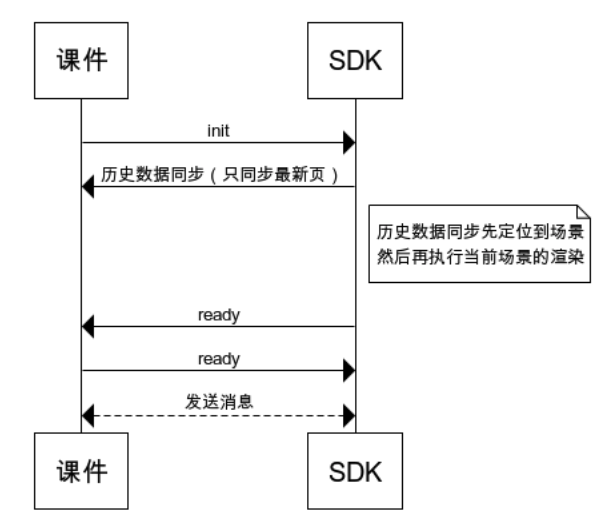
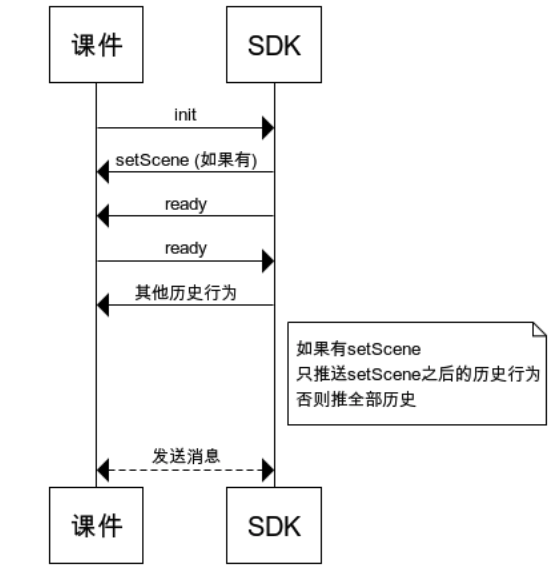
SDK 按照约定的文档更新

Changed region(s): [[0.0307, 0.0, 1.0, 0.9865]]

diff --git a/dist/index.js b/dist/index.js
@@ -1,1 +1,1 @@
-!function(e,t){if("object"==typeof exports&&"object"==typeof module)module.exports=t();else if("function"==typeof define&&define.amd)define([],t);else{var n=t();for(var r in n)("object"==typeof exports?exports:e)[r]=n[r]}}(window,(function(){return function(e){var t={};function n(r){if(t[r])return t[r].exports;var o=t[r]={i:r,l:!1,exports:{}};return e[r].call(o.exports,o,o.exports,n),o.l=!0,o.exports}return n.m=e,n.c=t,n.d=function(e,t,r){n.o(e,t)||Object.defineProperty(e,t,{enumerable:!0,get:r})},n.r=function(e){"undefined"!=typeof Symbol&&Symbol.toStringTag&&Object.defineProperty(e,Symbol.toStringTag,{value:"Module"}),Object.defineProperty(e,"__esModule",{value:!0})},n.t=function(e,t){if(1&t&&(e=n(e)),8&t)return e;if(4&t&&"object"==typeof e&&e&&e.__esModule)return e;var r=Object.create(null);if(n.r(r),Object.defineProperty(r,"default",{enumerable:!0,value:e}),2&t&&"string"!=typeof e)for(var o in e)n.d(r,o,function(t){return e[t]}.bind(null,o));return r},n.n=function(e){var t=e&&e.__esModule?function(){return e.default}:function(){return e};return n.d(t,"a",t),t},n.o=function(e,t){return Object.prototype.hasOwnProperty.call(e,t)},n.p="",n(n.s=0)}([function(e,t,n){"use strict";function r(){this.listeners={},this.maxListener=50}n.r(t),n.d(t,"riseObserver",(function(){return o})),n.d(t,"callRiseIframe",(function(){return h})),r.prototype.on=function(e,t){var n=this.listeners;if(n[e]&&n[e].length>=this.maxListener)throw console.error("监听器的最大数量是%d,您已超出限制",this.maxListener);n[e]instanceof Array?-1===n[e].indexOf(t)&&n[e].push(t):n[e]=[].concat(t)},r.prototype.addListener=r.prototype.on,r.prototype.emit=function(e){var t=Array.prototype.slice.call(arguments);t.shift();var n=this.listeners[e]||[],r=n.map((function(e){var n=e.apply(null,t);return n instanceof Promise?n:new Promise((function(e){return e(n)}))}));return Promise.all(r)},r.prototype.listeners=function(e){return this.listeners[e]},r.prototype.setMaxListeners=function(e){this.maxListener=e},r.prototype.removeListener=function(e,t){var n=this.listeners,r=(n[e]||[]).indexOf(t);r>=0&&n[e].splice(r,1)},r.prototype.removeAllListener=function(e){this.listeners[e]=[]},r.prototype.once=function(e,t){var n=this;this.on(e,(function r(){var o=Array.prototype.slice.call(arguments);t.apply(null,o),n.removeListener(e,r)}))};var o=new r,i=[],a={isLoad:!1,historyMsg:null,isHistorySynchronized:!1,isReady:!1};Object.defineProperty(a,"isReady",{get:function(){return a.isLoad&&a.isHistorySynchronized}});var s={render:function(e){return o.emit(e.behavior,e)},onLoad:function(){a.isLoad=!0,!a.isHistorySynchronized&&a.historyMsg&&s.syncHistory(a.historyMsg),s.flushQueue()},syncHistory:function(e){var t=e.content.list;if(t&&0!==t.length)if(a.isLoad){!function e(n){n<t.length-1?s.render(t[n]).then((function(){e(n++)})):(a.isHistorySynchronized=!0,a.historyMsg=null,s.flushQueue())}(0)}else a.historyMsg=e},flushQueue:function(){if(a.isReady)for(;i.length>0;)s.render(i[0]),i.splice(0,1)}};function u(e){if(window===window.top)return!1;console.log("sdk data:",e),"load"===e.behavior&&s.onLoad(),e&&e.behavior&&window.parent.postMessage&&window.parent.postMessage(e,"*")}window.addEventListener("message",(function(e){if(window!==window.top){var t=e.data;t&&t.behavior&&("$rise-courseware-history"!==t.behavior?a.isReady?s.render(t):i.push(t):s.syncHistory(t))}}));var f=100;function c(e,t,n){return t in e?Object.defineProperty(e,t,{value:n,enumerable:!0,configurable:!0,writable:!0}):e[t]=n,e}var l=new Map,p=function e(t){var n=this;!function(e,t){if(!(e instanceof t))throw new TypeError("Cannot call a class as a function")}(this,e),c(this,"interval",null),c(this,"bufferMap",null),c(this,"timer",null);var r=function(e){var t=e.interval;return"number"==typeof t?t:f}(t);if(r<0)throw new Error("interval 设置错误，无法创建定时任务");this.interval=r;var o=function(e){return"".concat(e.target,"-").concat(e.behavior)}(t);if(l.has(r)){var i=l.get(r);return i.bufferMap.set(o,t),i}return this.bufferMap=new Map,this.bufferMap.set(o,t),this.timer=setInterval((function(){var e=n.bufferMap;e.size>0?e.forEach((function(t,n){u(t),e.delete(n)})):(clearInterval(n.timer),l.delete(r))}),this.interval),l.set(r,this),this};function y(e,t){var n;if("undefined"==typeof Symbol||null==e[Symbol.iterator]){if(Array.isArray(e)||(n=function(e,t){if(!e)return;if("string"==typeof e)return d(e,t);var n=Object.prototype.toString.call(e).slice(8,-1);"Object"===n&&e.constructor&&(n=e.constructor.name);if("Map"===n||"Set"===n)return Array.from(e);if("Arguments"===n||/^(?:Ui|I)nt(?:8|16|32)(?:Clamped)?Array$/.test(n))return d(e,t)}(e))||t&&e&&"number"==typeof e.length){n&&(e=n);var r=0,o=function(){};return{s:o,n:function(){return r>=e.length?{done:!0}:{done:!1,value:e[r++]}},e:function(e){throw e},f:o}}throw new TypeError("Invalid attempt to iterate non-iterable instance.\nIn order to be iterable, non-array objects must have a [Symbol.iterator]() method.")}var i,a=!0,s=!1;return{s:function(){n=e[Symbol.iterator]()},n:function(){var e=n.next();return a=e.done,e},e:function(e){s=!0,i=e},f:function(){try{a||null==n.return||n.return()}finally{if(s)throw i}}}}function d(e,t){(null==t||t>e.length)&&(t=e.length);for(var n=0,r=new Array(t);n<t;n++)r[n]=e[n];return r}var h=function(e){e.interval?new p(e):e.waitOn&&e.waitOn.length>0?function(e){var t,n=e.waitOn.map((function(t){return"".concat(e.target,"-").concat(t)})),r=0,o=y(l.values());try{var i=function(){var e=t.value;if(!e.bufferMap)return"continue";n.forEach((function(t){e.bufferMap.has(t)&&(r=Math.max(e.interval,r))}))};for(o.s();!(t=o.n()).done;)i()}catch(e){o.e(e)}finally{o.f()}setTimeout((function(){u(e)}),r+1)}(e):u(e)}}])}));
+!function(e,t){if("object"==typeof exports&&"object"==typeof module)module.exports=t();else if("function"==typeof define&&define.amd)define([],t);else{var n=t();for(var r in n)("object"==typeof exports?exports:e)[r]=n[r]}}(window,(function(){return function(e){var t={};function n(r){if(t[r])return t[r].exports;var i=t[r]={i:r,l:!1,exports:{}};return e[r].call(i.exports,i,i.exports,n),i.l=!0,i.exports}return n.m=e,n.c=t,n.d=function(e,t,r){n.o(e,t)||Object.defineProperty(e,t,{enumerable:!0,get:r})},n.r=function(e){"undefined"!=typeof Symbol&&Symbol.toStringTag&&Object.defineProperty(e,Symbol.toStringTag,{value:"Module"}),Object.defineProperty(e,"__esModule",{value:!0})},n.t=function(e,t){if(1&t&&(e=n(e)),8&t)return e;if(4&t&&"object"==typeof e&&e&&e.__esModule)return e;var r=Object.create(null);if(n.r(r),Object.defineProperty(r,"default",{enumerable:!0,value:e}),2&t&&"string"!=typeof e)for(var i in e)n.d(r,i,function(t){return e[t]}.bind(null,i));return r},n.n=function(e){var t=e&&e.__esModule?function(){return e.default}:function(){return e};return n.d(t,"a",t),t},n.o=function(e,t){return Object.prototype.hasOwnProperty.call(e,t)},n.p="",n(n.s=0)}([function(e,t,n){"use strict";function r(){this.listeners={},this.maxListener=50}n.r(t),n.d(t,"riseObserver",(function(){return a})),n.d(t,"callRiseIframe",(function(){return b})),r.prototype.on=function(e,t){var n=this.listeners;if(n[e]&&n[e].length>=this.maxListener)throw console.error("监听器的最大数量是%d,您已超出限制",this.maxListener);n[e]instanceof Array?-1===n[e].indexOf(t)&&n[e].push(t):n[e]=[].concat(t)},r.prototype.addListener=r.prototype.on,r.prototype.emit=function(e){var t=Array.prototype.slice.call(arguments);t.shift();var n=this.listeners[e]||[];n.forEach((function(e){e.apply(null,t)}))},r.prototype.listeners=function(e){return this.listeners[e]},r.prototype.setMaxListeners=function(e){this.maxListener=e},r.prototype.removeListener=function(e,t){var n=this.listeners,r=(n[e]||[]).indexOf(t);r>=0&&n[e].splice(r,1)},r.prototype.removeAllListener=function(e){this.listeners[e]=[]},r.prototype.once=function(e,t){var n=this;this.on(e,(function r(){var i=Array.prototype.slice.call(arguments);t.apply(null,i),n.removeListener(e,r)}))};var i=100,o={history:"$rise_history",load:"init",ready:"ready",setScene:"setScene"},a=new r,s=[],u={isLoad:!1,isReady:!1},f={historyMsg:null,lastScene:null,isHistorySynchronized:!1,isReady:!1},c={render:function(e){return a.emit(e.behavior,e)},onLoad:function(){f.isLoad=!0,this.setScene()},setScene:function(){if(!f.historyMsg)return setTimeout((function(){c.setScene()}),50),!1;var e=f.historyMsg.content.list;if(e&&e.length>0){var t=e.filter((function(e){return e.behavior===o.setScene}));if(t&&t.length>0){var n=t[t.length-1];f.lastScene=n,c.render(n)}}this.onReady()},onReady:function(){f.isReady=!0,c.render({behavior:o.ready})},onCoursewareReady:function(){u.isReady=!0,this.syncHistory()},syncHistory:function(){if(!u.isReady)return!1;var e=f.historyMsg.content.list;if(!e||0===e.length)return this.onSyncHistoryFinish(),!0;var t=f.lastScene,n=null;n=t?e.filter((function(e){return e.timestamp>t.timestamp})):e;!function e(t){if(t===n.length)this.onSyncHistoryFinish();else{var r=n[t];c.render(r).then((function(){t++,r.timeout?setTimeout((function(){e(t)}),r.timeout):e(t)}))}}(0)},onSyncHistoryFinish:function(){f.historyMsg=null,f.isHistorySynchronized=!0,c.flushQueue()},flushQueue:function(){if(f.isHistorySynchronized)for(;s.length>0;)c.render(s[0]),s.splice(0,1)}};function l(e){if(window===window.top)return!1;e&&e.behavior&&(console.log("sdk data:",e),e.behavior===o.load?c.onLoad():e.behavior===o.ready?c.onCoursewareReady():window.parent.postMessage&&window.parent.postMessage(e,"*"))}function y(e,t,n){return t in e?Object.defineProperty(e,t,{value:n,enumerable:!0,configurable:!0,writable:!0}):e[t]=n,e}window.addEventListener("message",(function(e){if(window!==window.top){var t=e.data;t&&t.behavior&&(t.behavior!==o.history?f.isHistorySynchronized?c.render(t):s.push(t):f.historyMsg=t)}}));var h=new Map,d=function e(t){var n=this;!function(e,t){if(!(e instanceof t))throw new TypeError("Cannot call a class as a function")}(this,e),y(this,"interval",null),y(this,"bufferMap",null),y(this,"timer",null);var r=function(e){var t=e.interval;return"number"==typeof t?t:i}(t);if(r<0)throw new Error("interval 设置错误，无法创建定时任务");this.interval=r;var o=function(e){return"".concat(e.target,"-").concat(e.behavior)}(t);if(h.has(r)){var a=h.get(r);return a.bufferMap.set(o,t),a}return this.bufferMap=new Map,this.bufferMap.set(o,t),this.timer=setInterval((function(){var e=n.bufferMap;e.size>0?e.forEach((function(t,n){l(t),e.delete(n)})):(clearInterval(n.timer),h.delete(r))}),this.interval),h.set(r,this),this};function p(e,t){var n;if("undefined"==typeof Symbol||null==e[Symbol.iterator]){if(Array.isArray(e)||(n=function(e,t){if(!e)return;if("string"==typeof e)return v(e,t);var n=Object.prototype.toString.call(e).slice(8,-1);"Object"===n&&e.constructor&&(n=e.constructor.name);if("Map"===n||"Set"===n)return Array.from(e);if("Arguments"===n||/^(?:Ui|I)nt(?:8|16|32)(?:Clamped)?Array$/.test(n))return v(e,t)}(e))||t&&e&&"number"==typeof e.length){n&&(e=n);var r=0,i=function(){};return{s:i,n:function(){return r>=e.length?{done:!0}:{done:!1,value:e[r++]}},e:function(e){throw e},f:i}}throw new TypeError("Invalid attempt to iterate non-iterable instance.\nIn order to be iterable, non-array objects must have a [Symbol.iterator]() method.")}var o,a=!0,s=!1;return{s:function(){n=e[Symbol.iterator]()},n:function(){var e=n.next();return a=e.done,e},e:function(e){s=!0,o=e},f:function(){try{a||null==n.return||n.return()}finally{if(s)throw o}}}}function v(e,t){(null==t||t>e.length)&&(t=e.length);for(var n=0,r=new Array(t);n<t;n++)r[n]=e[n];return r}var b=function(e){e.interval?new d(e):e.waitOn&&e.waitOn.length>0?function(e){var t,n=e.waitOn.map((function(t){return"".concat(e.target,"-").concat(t)})),r=0,i=p(h.values());try{var o=function(){var e=t.value;if(!e.bufferMap)return"continue";n.forEach((function(t){e.bufferMap.has(t)&&(r=Math.max(e.interval,r))}))};for(i.s();!(t=i.n()).done;)o()}catch(e){i.e(e)}finally{i.f()}setTimeout((function(){l(e)}),r+1)}(e):l(e)}}])}));

diff --git a/demo/js/rise-h5-sdk.js b/demo/js/rise-h5-sdk.js
@@ -1,1 +1,1 @@
-!function(e,t){for(var n in t)e[n]=t[n]}(window,function(e){var t={};function n(r){if(t[r])return t[r].exports;var i=t[r]={i:r,l:!1,exports:{}};return e[r].call(i.exports,i,i.exports,n),i.l=!0,i.exports}return n.m=e,n.c=t,n.d=function(e,t,r){n.o(e,t)||Object.defineProperty(e,t,{enumerable:!0,get:r})},n.r=function(e){"undefined"!=typeof Symbol&&Symbol.toStringTag&&Object.defineProperty(e,Symbol.toStringTag,{value:"Module"}),Object.defineProperty(e,"__esModule",{value:!0})},n.t=function(e,t){if(1&t&&(e=n(e)),8&t)return e;if(4&t&&"object"==typeof e&&e&&e.__esModule)return e;var r=Object.create(null);if(n.r(r),Object.defineProperty(r,"default",{enumerable:!0,value:e}),2&t&&"string"!=typeof e)for(var i in e)n.d(r,i,function(t){return e[t]}.bind(null,i));return r},n.n=function(e){var t=e&&e.__esModule?function(){return e.default}:function(){return e};return n.d(t,"a",t),t},n.o=function(e,t){return Object.prototype.hasOwnProperty.call(e,t)},n.p="",n(n.s=0)}([function(e,t,n){"use strict";function r(){this.listeners={},this.maxListener=50}n.r(t),n.d(t,"riseObserver",(function(){return i})),n.d(t,"callRiseIframe",(function(){return d})),r.prototype.on=function(e,t){var n=this.listeners;if(n[e]&&n[e].length>=this.maxListener)throw console.error("监听器的最大数量是%d,您已超出限制",this.maxListener);n[e]instanceof Array?-1===n[e].indexOf(t)&&n[e].push(t):n[e]=[].concat(t)},r.prototype.addListener=r.prototype.on,r.prototype.emit=function(e){var t=Array.prototype.slice.call(arguments);t.shift();var n=this.listeners[e]||[],r=n.map((function(e){var n=e.apply(null,t);return n instanceof Promise?n:new Promise((function(e){return e(n)}))}));return Promise.all(r)},r.prototype.listeners=function(e){return this.listeners[e]},r.prototype.setMaxListeners=function(e){this.maxListener=e},r.prototype.removeListener=function(e,t){var n=this.listeners,r=(n[e]||[]).indexOf(t);r>=0&&n[e].splice(r,1)},r.prototype.removeAllListener=function(e){this.listeners[e]=[]},r.prototype.once=function(e,t){var n=this;this.on(e,(function r(){var i=Array.prototype.slice.call(arguments);t.apply(null,i),n.removeListener(e,r)}))};var i=new r,o=[],a={isLoad:!1,historyMsg:null,isHistorySynchronized:!1,isReady:!1};Object.defineProperty(a,"isReady",{get:function(){return a.isLoad&&a.isHistorySynchronized}});var s={render:function(e){return i.emit(e.behavior,e)},onLoad:function(){a.isLoad=!0,!a.isHistorySynchronized&&a.historyMsg&&s.syncHistory(a.historyMsg),s.flushQueue()},syncHistory:function(e){var t=e.content.list;if(t&&0!==t.length)if(a.isLoad){!function e(n){n<t.length-1?s.render(t[n]).then((function(){e(n++)})):(a.isHistorySynchronized=!0,a.historyMsg=null,s.flushQueue())}(0)}else a.historyMsg=e},flushQueue:function(){if(a.isReady)for(;o.length>0;)s.render(o[0]),o.splice(0,1)}};function u(e){if(window===window.top)return!1;console.log("sdk data:",e),"load"===e.behavior&&s.onLoad(),e&&e.behavior&&window.parent.postMessage&&window.parent.postMessage(e,"*")}window.addEventListener("message",(function(e){if(window!==window.top){var t=e.data;t&&t.behavior&&("$rise-courseware-history"!==t.behavior?a.isReady?s.render(t):o.push(t):s.syncHistory(t))}}));var f=100;function c(e,t,n){return t in e?Object.defineProperty(e,t,{value:n,enumerable:!0,configurable:!0,writable:!0}):e[t]=n,e}var l=new Map,p=function e(t){var n=this;!function(e,t){if(!(e instanceof t))throw new TypeError("Cannot call a class as a function")}(this,e),c(this,"interval",null),c(this,"bufferMap",null),c(this,"timer",null);var r=function(e){var t=e.interval;return"number"==typeof t?t:f}(t);if(r<0)throw new Error("interval 设置错误，无法创建定时任务");this.interval=r;var i=function(e){return"".concat(e.target,"-").concat(e.behavior)}(t);if(l.has(r)){var o=l.get(r);return o.bufferMap.set(i,t),o}return this.bufferMap=new Map,this.bufferMap.set(i,t),this.timer=setInterval((function(){var e=n.bufferMap;e.size>0?e.forEach((function(t,n){u(t),e.delete(n)})):(clearInterval(n.timer),l.delete(r))}),this.interval),l.set(r,this),this};function y(e,t){var n;if("undefined"==typeof Symbol||null==e[Symbol.iterator]){if(Array.isArray(e)||(n=function(e,t){if(!e)return;if("string"==typeof e)return h(e,t);var n=Object.prototype.toString.call(e).slice(8,-1);"Object"===n&&e.constructor&&(n=e.constructor.name);if("Map"===n||"Set"===n)return Array.from(e);if("Arguments"===n||/^(?:Ui|I)nt(?:8|16|32)(?:Clamped)?Array$/.test(n))return h(e,t)}(e))||t&&e&&"number"==typeof e.length){n&&(e=n);var r=0,i=function(){};return{s:i,n:function(){return r>=e.length?{done:!0}:{done:!1,value:e[r++]}},e:function(e){throw e},f:i}}throw new TypeError("Invalid attempt to iterate non-iterable instance.\nIn order to be iterable, non-array objects must have a [Symbol.iterator]() method.")}var o,a=!0,s=!1;return{s:function(){n=e[Symbol.iterator]()},n:function(){var e=n.next();return a=e.done,e},e:function(e){s=!0,o=e},f:function(){try{a||null==n.return||n.return()}finally{if(s)throw o}}}}function h(e,t){(null==t||t>e.length)&&(t=e.length);for(var n=0,r=new Array(t);n<t;n++)r[n]=e[n];return r}var d=function(e){e.interval?new p(e):e.waitOn&&e.waitOn.length>0?function(e){var t,n=e.waitOn.map((function(t){return"".concat(e.target,"-").concat(t)})),r=0,i=y(l.values());try{var o=function(){var e=t.value;if(!e.bufferMap)return"continue";n.forEach((function(t){e.bufferMap.has(t)&&(r=Math.max(e.interval,r))}))};for(i.s();!(t=i.n()).done;)o()}catch(e){i.e(e)}finally{i.f()}setTimeout((function(){u(e)}),r+1)}(e):u(e)}}]));
+!function(e,t){for(var n in t)e[n]=t[n]}(window,function(e){var t={};function n(r){if(t[r])return t[r].exports;var i=t[r]={i:r,l:!1,exports:{}};return e[r].call(i.exports,i,i.exports,n),i.l=!0,i.exports}return n.m=e,n.c=t,n.d=function(e,t,r){n.o(e,t)||Object.defineProperty(e,t,{enumerable:!0,get:r})},n.r=function(e){"undefined"!=typeof Symbol&&Symbol.toStringTag&&Object.defineProperty(e,Symbol.toStringTag,{value:"Module"}),Object.defineProperty(e,"__esModule",{value:!0})},n.t=function(e,t){if(1&t&&(e=n(e)),8&t)return e;if(4&t&&"object"==typeof e&&e&&e.__esModule)return e;var r=Object.create(null);if(n.r(r),Object.defineProperty(r,"default",{enumerable:!0,value:e}),2&t&&"string"!=typeof e)for(var i in e)n.d(r,i,function(t){return e[t]}.bind(null,i));return r},n.n=function(e){var t=e&&e.__esModule?function(){return e.default}:function(){return e};return n.d(t,"a",t),t},n.o=function(e,t){return Object.prototype.hasOwnProperty.call(e,t)},n.p="",n(n.s=0)}([function(e,t,n){"use strict";function r(){this.listeners={},this.maxListener=50}n.r(t),n.d(t,"riseObserver",(function(){return a})),n.d(t,"callRiseIframe",(function(){return b})),r.prototype.on=function(e,t){var n=this.listeners;if(n[e]&&n[e].length>=this.maxListener)throw console.error("监听器的最大数量是%d,您已超出限制",this.maxListener);n[e]instanceof Array?-1===n[e].indexOf(t)&&n[e].push(t):n[e]=[].concat(t)},r.prototype.addListener=r.prototype.on,r.prototype.emit=function(e){var t=Array.prototype.slice.call(arguments);t.shift();var n=this.listeners[e]||[];n.forEach((function(e){e.apply(null,t)}))},r.prototype.listeners=function(e){return this.listeners[e]},r.prototype.setMaxListeners=function(e){this.maxListener=e},r.prototype.removeListener=function(e,t){var n=this.listeners,r=(n[e]||[]).indexOf(t);r>=0&&n[e].splice(r,1)},r.prototype.removeAllListener=function(e){this.listeners[e]=[]},r.prototype.once=function(e,t){var n=this;this.on(e,(function r(){var i=Array.prototype.slice.call(arguments);t.apply(null,i),n.removeListener(e,r)}))};var i=100,o={history:"$rise_history",load:"init",ready:"ready",setScene:"setScene"},a=new r,s=[],u={isLoad:!1,isReady:!1},f={historyMsg:null,lastScene:null,isHistorySynchronized:!1,isReady:!1},c={render:function(e){return a.emit(e.behavior,e)},onLoad:function(){f.isLoad=!0,this.setScene()},setScene:function(){if(!f.historyMsg)return setTimeout((function(){c.setScene()}),50),!1;var e=f.historyMsg.content.list;if(e&&e.length>0){var t=e.filter((function(e){return e.behavior===o.setScene}));if(t&&t.length>0){var n=t[t.length-1];f.lastScene=n,c.render(n)}}this.onReady()},onReady:function(){f.isReady=!0,c.render({behavior:o.ready})},onCoursewareReady:function(){u.isReady=!0,this.syncHistory()},syncHistory:function(){if(!u.isReady)return!1;var e=f.historyMsg.content.list;if(!e||0===e.length)return this.onSyncHistoryFinish(),!0;var t=f.lastScene,n=null;n=t?e.filter((function(e){return e.timestamp>t.timestamp})):e;!function e(t){if(t===n.length)this.onSyncHistoryFinish();else{var r=n[t];c.render(r).then((function(){t++,r.timeout?setTimeout((function(){e(t)}),r.timeout):e(t)}))}}(0)},onSyncHistoryFinish:function(){f.historyMsg=null,f.isHistorySynchronized=!0,c.flushQueue()},flushQueue:function(){if(f.isHistorySynchronized)for(;s.length>0;)c.render(s[0]),s.splice(0,1)}};function l(e){if(window===window.top)return!1;e&&e.behavior&&(console.log("sdk data:",e),e.behavior===o.load?c.onLoad():e.behavior===o.ready?c.onCoursewareReady():window.parent.postMessage&&window.parent.postMessage(e,"*"))}function y(e,t,n){return t in e?Object.defineProperty(e,t,{value:n,enumerable:!0,configurable:!0,writable:!0}):e[t]=n,e}window.addEventListener("message",(function(e){if(window!==window.top){var t=e.data;t&&t.behavior&&(t.behavior!==o.history?f.isHistorySynchronized?c.render(t):s.push(t):f.historyMsg=t)}}));var h=new Map,d=function e(t){var n=this;!function(e,t){if(!(e instanceof t))throw new TypeError("Cannot call a class as a function")}(this,e),y(this,"interval",null),y(this,"bufferMap",null),y(this,"timer",null);var r=function(e){var t=e.interval;return"number"==typeof t?t:i}(t);if(r<0)throw new Error("interval 设置错误，无法创建定时任务");this.interval=r;var o=function(e){return"".concat(e.target,"-").concat(e.behavior)}(t);if(h.has(r)){var a=h.get(r);return a.bufferMap.set(o,t),a}return this.bufferMap=new Map,this.bufferMap.set(o,t),this.timer=setInterval((function(){var e=n.bufferMap;e.size>0?e.forEach((function(t,n){l(t),e.delete(n)})):(clearInterval(n.timer),h.delete(r))}),this.interval),h.set(r,this),this};function p(e,t){var n;if("undefined"==typeof Symbol||null==e[Symbol.iterator]){if(Array.isArray(e)||(n=function(e,t){if(!e)return;if("string"==typeof e)return v(e,t);var n=Object.prototype.toString.call(e).slice(8,-1);"Object"===n&&e.constructor&&(n=e.constructor.name);if("Map"===n||"Set"===n)return Array.from(e);if("Arguments"===n||/^(?:Ui|I)nt(?:8|16|32)(?:Clamped)?Array$/.test(n))return v(e,t)}(e))||t&&e&&"number"==typeof e.length){n&&(e=n);var r=0,i=function(){};return{s:i,n:function(){return r>=e.length?{done:!0}:{done:!1,value:e[r++]}},e:function(e){throw e},f:i}}throw new TypeError("Invalid attempt to iterate non-iterable instance.\nIn order to be iterable, non-array objects must have a [Symbol.iterator]() method.")}var o,a=!0,s=!1;return{s:function(){n=e[Symbol.iterator]()},n:function(){var e=n.next();return a=e.done,e},e:function(e){s=!0,o=e},f:function(){try{a||null==n.return||n.return()}finally{if(s)throw o}}}}function v(e,t){(null==t||t>e.length)&&(t=e.length);for(var n=0,r=new Array(t);n<t;n++)r[n]=e[n];return r}var b=function(e){e.interval?new d(e):e.waitOn&&e.waitOn.length>0?function(e){var t,n=e.waitOn.map((function(t){return"".concat(e.target,"-").concat(t)})),r=0,i=p(h.values());try{var o=function(){var e=t.value;if(!e.bufferMap)return"continue";n.forEach((function(t){e.bufferMap.has(t)&&(r=Math.max(e.interval,r))}))};for(i.s();!(t=i.n()).done;)o()}catch(e){i.e(e)}finally{i.f()}setTimeout((function(){l(e)}),r+1)}(e):l(e)}}]));

diff --git a/dist/rise-h5-sdk.js b/dist/rise-h5-sdk.js
@@ -1,1 +1,1 @@
-!function(e,t){for(var n in t)e[n]=t[n]}(window,function(e){var t={};function n(r){if(t[r])return t[r].exports;var i=t[r]={i:r,l:!1,exports:{}};return e[r].call(i.exports,i,i.exports,n),i.l=!0,i.exports}return n.m=e,n.c=t,n.d=function(e,t,r){n.o(e,t)||Object.defineProperty(e,t,{enumerable:!0,get:r})},n.r=function(e){"undefined"!=typeof Symbol&&Symbol.toStringTag&&Object.defineProperty(e,Symbol.toStringTag,{value:"Module"}),Object.defineProperty(e,"__esModule",{value:!0})},n.t=function(e,t){if(1&t&&(e=n(e)),8&t)return e;if(4&t&&"object"==typeof e&&e&&e.__esModule)return e;var r=Object.create(null);if(n.r(r),Object.defineProperty(r,"default",{enumerable:!0,value:e}),2&t&&"string"!=typeof e)for(var i in e)n.d(r,i,function(t){return e[t]}.bind(null,i));return r},n.n=function(e){var t=e&&e.__esModule?function(){return e.default}:function(){return e};return n.d(t,"a",t),t},n.o=function(e,t){return Object.prototype.hasOwnProperty.call(e,t)},n.p="",n(n.s=0)}([function(e,t,n){"use strict";function r(){this.listeners={},this.maxListener=50}n.r(t),n.d(t,"riseObserver",(function(){return i})),n.d(t,"callRiseIframe",(function(){return d})),r.prototype.on=function(e,t){var n=this.listeners;if(n[e]&&n[e].length>=this.maxListener)throw console.error("监听器的最大数量是%d,您已超出限制",this.maxListener);n[e]instanceof Array?-1===n[e].indexOf(t)&&n[e].push(t):n[e]=[].concat(t)},r.prototype.addListener=r.prototype.on,r.prototype.emit=function(e){var t=Array.prototype.slice.call(arguments);t.shift();var n=this.listeners[e]||[],r=n.map((function(e){var n=e.apply(null,t);return n instanceof Promise?n:new Promise((function(e){return e(n)}))}));return Promise.all(r)},r.prototype.listeners=function(e){return this.listeners[e]},r.prototype.setMaxListeners=function(e){this.maxListener=e},r.prototype.removeListener=function(e,t){var n=this.listeners,r=(n[e]||[]).indexOf(t);r>=0&&n[e].splice(r,1)},r.prototype.removeAllListener=function(e){this.listeners[e]=[]},r.prototype.once=function(e,t){var n=this;this.on(e,(function r(){var i=Array.prototype.slice.call(arguments);t.apply(null,i),n.removeListener(e,r)}))};var i=new r,o=[],a={isLoad:!1,historyMsg:null,isHistorySynchronized:!1,isReady:!1};Object.defineProperty(a,"isReady",{get:function(){return a.isLoad&&a.isHistorySynchronized}});var s={render:function(e){return i.emit(e.behavior,e)},onLoad:function(){a.isLoad=!0,!a.isHistorySynchronized&&a.historyMsg&&s.syncHistory(a.historyMsg),s.flushQueue()},syncHistory:function(e){var t=e.content.list;if(t&&0!==t.length)if(a.isLoad){!function e(n){n<t.length-1?s.render(t[n]).then((function(){e(n++)})):(a.isHistorySynchronized=!0,a.historyMsg=null,s.flushQueue())}(0)}else a.historyMsg=e},flushQueue:function(){if(a.isReady)for(;o.length>0;)s.render(o[0]),o.splice(0,1)}};function u(e){if(window===window.top)return!1;console.log("sdk data:",e),"load"===e.behavior&&s.onLoad(),e&&e.behavior&&window.parent.postMessage&&window.parent.postMessage(e,"*")}window.addEventListener("message",(function(e){if(window!==window.top){var t=e.data;t&&t.behavior&&("$rise-courseware-history"!==t.behavior?a.isReady?s.render(t):o.push(t):s.syncHistory(t))}}));var f=100;function c(e,t,n){return t in e?Object.defineProperty(e,t,{value:n,enumerable:!0,configurable:!0,writable:!0}):e[t]=n,e}var l=new Map,p=function e(t){var n=this;!function(e,t){if(!(e instanceof t))throw new TypeError("Cannot call a class as a function")}(this,e),c(this,"interval",null),c(this,"bufferMap",null),c(this,"timer",null);var r=function(e){var t=e.interval;return"number"==typeof t?t:f}(t);if(r<0)throw new Error("interval 设置错误，无法创建定时任务");this.interval=r;var i=function(e){return"".concat(e.target,"-").concat(e.behavior)}(t);if(l.has(r)){var o=l.get(r);return o.bufferMap.set(i,t),o}return this.bufferMap=new Map,this.bufferMap.set(i,t),this.timer=setInterval((function(){var e=n.bufferMap;e.size>0?e.forEach((function(t,n){u(t),e.delete(n)})):(clearInterval(n.timer),l.delete(r))}),this.interval),l.set(r,this),this};function y(e,t){var n;if("undefined"==typeof Symbol||null==e[Symbol.iterator]){if(Array.isArray(e)||(n=function(e,t){if(!e)return;if("string"==typeof e)return h(e,t);var n=Object.prototype.toString.call(e).slice(8,-1);"Object"===n&&e.constructor&&(n=e.constructor.name);if("Map"===n||"Set"===n)return Array.from(e);if("Arguments"===n||/^(?:Ui|I)nt(?:8|16|32)(?:Clamped)?Array$/.test(n))return h(e,t)}(e))||t&&e&&"number"==typeof e.length){n&&(e=n);var r=0,i=function(){};return{s:i,n:function(){return r>=e.length?{done:!0}:{done:!1,value:e[r++]}},e:function(e){throw e},f:i}}throw new TypeError("Invalid attempt to iterate non-iterable instance.\nIn order to be iterable, non-array objects must have a [Symbol.iterator]() method.")}var o,a=!0,s=!1;return{s:function(){n=e[Symbol.iterator]()},n:function(){var e=n.next();return a=e.done,e},e:function(e){s=!0,o=e},f:function(){try{a||null==n.return||n.return()}finally{if(s)throw o}}}}function h(e,t){(null==t||t>e.length)&&(t=e.length);for(var n=0,r=new Array(t);n<t;n++)r[n]=e[n];return r}var d=function(e){e.interval?new p(e):e.waitOn&&e.waitOn.length>0?function(e){var t,n=e.waitOn.map((function(t){return"".concat(e.target,"-").concat(t)})),r=0,i=y(l.values());try{var o=function(){var e=t.value;if(!e.bufferMap)return"continue";n.forEach((function(t){e.bufferMap.has(t)&&(r=Math.max(e.interval,r))}))};for(i.s();!(t=i.n()).done;)o()}catch(e){i.e(e)}finally{i.f()}setTimeout((function(){u(e)}),r+1)}(e):u(e)}}]));
+!function(e,t){for(var n in t)e[n]=t[n]}(window,function(e){var t={};function n(r){if(t[r])return t[r].exports;var i=t[r]={i:r,l:!1,exports:{}};return e[r].call(i.exports,i,i.exports,n),i.l=!0,i.exports}return n.m=e,n.c=t,n.d=function(e,t,r){n.o(e,t)||Object.defineProperty(e,t,{enumerable:!0,get:r})},n.r=function(e){"undefined"!=typeof Symbol&&Symbol.toStringTag&&Object.defineProperty(e,Symbol.toStringTag,{value:"Module"}),Object.defineProperty(e,"__esModule",{value:!0})},n.t=function(e,t){if(1&t&&(e=n(e)),8&t)return e;if(4&t&&"object"==typeof e&&e&&e.__esModule)return e;var r=Object.create(null);if(n.r(r),Object.defineProperty(r,"default",{enumerable:!0,value:e}),2&t&&"string"!=typeof e)for(var i in e)n.d(r,i,function(t){return e[t]}.bind(null,i));return r},n.n=function(e){var t=e&&e.__esModule?function(){return e.default}:function(){return e};return n.d(t,"a",t),t},n.o=function(e,t){return Object.prototype.hasOwnProperty.call(e,t)},n.p="",n(n.s=0)}([function(e,t,n){"use strict";function r(){this.listeners={},this.maxListener=50}n.r(t),n.d(t,"riseObserver",(function(){return a})),n.d(t,"callRiseIframe",(function(){return b})),r.prototype.on=function(e,t){var n=this.listeners;if(n[e]&&n[e].length>=this.maxListener)throw console.error("监听器的最大数量是%d,您已超出限制",this.maxListener);n[e]instanceof Array?-1===n[e].indexOf(t)&&n[e].push(t):n[e]=[].concat(t)},r.prototype.addListener=r.prototype.on,r.prototype.emit=function(e){var t=Array.prototype.slice.call(arguments);t.shift();var n=this.listeners[e]||[];n.forEach((function(e){e.apply(null,t)}))},r.prototype.listeners=function(e){return this.listeners[e]},r.prototype.setMaxListeners=function(e){this.maxListener=e},r.prototype.removeListener=function(e,t){var n=this.listeners,r=(n[e]||[]).indexOf(t);r>=0&&n[e].splice(r,1)},r.prototype.removeAllListener=function(e){this.listeners[e]=[]},r.prototype.once=function(e,t){var n=this;this.on(e,(function r(){var i=Array.prototype.slice.call(arguments);t.apply(null,i),n.removeListener(e,r)}))};var i=100,o={history:"$rise_history",load:"init",ready:"ready",setScene:"setScene"},a=new r,s=[],u={isLoad:!1,isReady:!1},f={historyMsg:null,lastScene:null,isHistorySynchronized:!1,isReady:!1},c={render:function(e){return a.emit(e.behavior,e)},onLoad:function(){f.isLoad=!0,this.setScene()},setScene:function(){if(!f.historyMsg)return setTimeout((function(){c.setScene()}),50),!1;var e=f.historyMsg.content.list;if(e&&e.length>0){var t=e.filter((function(e){return e.behavior===o.setScene}));if(t&&t.length>0){var n=t[t.length-1];f.lastScene=n,c.render(n)}}this.onReady()},onReady:function(){f.isReady=!0,c.render({behavior:o.ready})},onCoursewareReady:function(){u.isReady=!0,this.syncHistory()},syncHistory:function(){if(!u.isReady)return!1;var e=f.historyMsg.content.list;if(!e||0===e.length)return this.onSyncHistoryFinish(),!0;var t=f.lastScene,n=null;n=t?e.filter((function(e){return e.timestamp>t.timestamp})):e;!function e(t){if(t===n.length)this.onSyncHistoryFinish();else{var r=n[t];c.render(r).then((function(){t++,r.timeout?setTimeout((function(){e(t)}),r.timeout):e(t)}))}}(0)},onSyncHistoryFinish:function(){f.historyMsg=null,f.isHistorySynchronized=!0,c.flushQueue()},flushQueue:function(){if(f.isHistorySynchronized)for(;s.length>0;)c.render(s[0]),s.splice(0,1)}};function l(e){if(window===window.top)return!1;e&&e.behavior&&(console.log("sdk data:",e),e.behavior===o.load?c.onLoad():e.behavior===o.ready?c.onCoursewareReady():window.parent.postMessage&&window.parent.postMessage(e,"*"))}function y(e,t,n){return t in e?Object.defineProperty(e,t,{value:n,enumerable:!0,configurable:!0,writable:!0}):e[t]=n,e}window.addEventListener("message",(function(e){if(window!==window.top){var t=e.data;t&&t.behavior&&(t.behavior!==o.history?f.isHistorySynchronized?c.render(t):s.push(t):f.historyMsg=t)}}));var h=new Map,d=function e(t){var n=this;!function(e,t){if(!(e instanceof t))throw new TypeError("Cannot call a class as a function")}(this,e),y(this,"interval",null),y(this,"bufferMap",null),y(this,"timer",null);var r=function(e){var t=e.interval;return"number"==typeof t?t:i}(t);if(r<0)throw new Error("interval 设置错误，无法创建定时任务");this.interval=r;var o=function(e){return"".concat(e.target,"-").concat(e.behavior)}(t);if(h.has(r)){var a=h.get(r);return a.bufferMap.set(o,t),a}return this.bufferMap=new Map,this.bufferMap.set(o,t),this.timer=setInterval((function(){var e=n.bufferMap;e.size>0?e.forEach((function(t,n){l(t),e.delete(n)})):(clearInterval(n.timer),h.delete(r))}),this.interval),h.set(r,this),this};function p(e,t){var n;if("undefined"==typeof Symbol||null==e[Symbol.iterator]){if(Array.isArray(e)||(n=function(e,t){if(!e)return;if("string"==typeof e)return v(e,t);var n=Object.prototype.toString.call(e).slice(8,-1);"Object"===n&&e.constructor&&(n=e.constructor.name);if("Map"===n||"Set"===n)return Array.from(e);if("Arguments"===n||/^(?:Ui|I)nt(?:8|16|32)(?:Clamped)?Array$/.test(n))return v(e,t)}(e))||t&&e&&"number"==typeof e.length){n&&(e=n);var r=0,i=function(){};return{s:i,n:function(){return r>=e.length?{done:!0}:{done:!1,value:e[r++]}},e:function(e){throw e},f:i}}throw new TypeError("Invalid attempt to iterate non-iterable instance.\nIn order to be iterable, non-array objects must have a [Symbol.iterator]() method.")}var o,a=!0,s=!1;return{s:function(){n=e[Symbol.iterator]()},n:function(){var e=n.next();return a=e.done,e},e:function(e){s=!0,o=e},f:function(){try{a||null==n.return||n.return()}finally{if(s)throw o}}}}function v(e,t){(null==t||t>e.length)&&(t=e.length);for(var n=0,r=new Array(t);n<t;n++)r[n]=e[n];return r}var b=function(e){e.interval?new d(e):e.waitOn&&e.waitOn.length>0?function(e){var t,n=e.waitOn.map((function(t){return"".concat(e.target,"-").concat(t)})),r=0,i=p(h.values());try{var o=function(){var e=t.value;if(!e.bufferMap)return"continue";n.forEach((function(t){e.bufferMap.has(t)&&(r=Math.max(e.interval,r))}))};for(i.s();!(t=i.n()).done;)o()}catch(e){i.e(e)}finally{i.f()}setTimeout((function(){l(e)}),r+1)}(e):l(e)}}]));

diff --git a/src/message.js b/src/message.js
@@ -7,6 +7,7 @@ const riseObserver = new EventEmitter();
  */
 const queue = [];
 
+// 课件状态
 const courseware = {
   // 课件是否已加载。以收到 课件的 init 通知为准
   isLoad: false,
@@ -17,16 +18,13 @@ const courseware = {
 const state = {
   // 如果收到历史操作消息后，课件还没 load ，那需要先把历史消息挂起，等 load 后再渲染。（标准 SDK 消息）
   historyMsg: null,
+  // 从历史行为中取的最近的一次 setScene 行为
+  lastScene: null,
   // 历史操作是否已同步
   isHistorySynchronized: false,
   // SDK 准备就绪
-  isReady: false,
+  isReady: false
 }
-// Object.defineProperty(state, 'isReady', {
-//   get() {
-//     return state.isLoad && state.isHistorySynchronized;
-//   }
-// });
 
 const action = {
   render(data) {
@@ -34,15 +32,49 @@ const action = {
   },
   onLoad() {
     state.isLoad = true;
-    // 检测同步课件的操作
-    if (!state.isHistorySynchronized && state.historyMsg) {
-      action.syncHistory();
-    }
+    this.setScene();
   },
-  // 同步课件的历史操作
+  // 如果有 setScene ，则会通知课件设置场景
+  setScene() {
+    if (!state.historyMsg) {
+      // 如果还没收到历史消息，稍后再询问执行
+      setTimeout(() => {
+        action.setScene();
+      }, 50);
+      return false;
+    }
+    // list 是 rise 存储的去重后的所有的历史操作
+    const list = state.historyMsg.content.list;
+    if (list && list.length > 0) {
+      // 找出 setScene behavior
+      const scenes = list.filter(p => p.behavior === config.behaviors.setScene);
+      if (scenes && scenes.length > 0) {
+        const lastScene = scenes[scenes.length - 1];
+        // 记录到 state 上，后面的历史行为同步函数会用到
+        state.lastScene = lastScene;
+        action.render(lastScene);
+      }
+    }
+
+    this.onReady();
+  },
+  // SDK Ready
+  onReady() {
+    state.isReady = true;
+    // sdk ready 通知
+    action.render({
+      behavior: config.behaviors.ready
+    });
+  },
+  // 课件 Ready
+  onCoursewareReady() {
+    courseware.isReady = true;
+    this.syncHistory();
+  },
+  // 同步课件的历史行为
   syncHistory() {
-    // 必须要在课件 load 之后再同步
-    if (!state.isLoad) {
+    // 要在课件 ready 之后
+    if (!courseware.isReady) {
       return false;
     }
     // list 是 rise 存储的去重后的所有的历史操作
@@ -51,14 +83,27 @@ const action = {
       this.onSyncHistoryFinish();
       return true;
     }
+    // 历史行为中最近的 setScene
+    let lastScene = state.lastScene;
+    // 要渲染的行为
+    let renderList = null;
+    if (lastScene) {
+      renderList = list.filter(p => p.timestamp > lastScene.timestamp);
+    } else {
+      renderList = list;
+    }
+    // 依次渲染
     const next = function (i) {
-      if (i === list.length - 1) {
+      if (i === renderList.length) {
+        // 同步完成
         this.onSyncHistoryFinish();
       } else {
-        const data = list[i];
-        action.render(list[i]).then(() => {
+        const data = renderList[i];
+        // 依次渲染
+        action.render(data).then(() => {
           i++;
           if (data.timeout) {
+            // 如果当前行为设置了执行消耗时间，那下一个行为要等待此间隔
             setTimeout(() => {
               next(i);
             }, data.timeout);
@@ -76,10 +121,12 @@ const action = {
     state.historyMsg = null;
     // 标记历史同步完成
     state.isHistorySynchronized = true;
+    // 挂起的消息进行渲染
+    action.flushQueue();
   },
   // 队列中的消息执行渲染
   flushQueue() {
-    if (state.isReady) {
+    if (state.isHistorySynchronized) {
       while (queue.length > 0) {
         action.render(queue[0]);
         queue.splice(0, 1);
@@ -102,11 +149,11 @@ window.addEventListener('message', function (evt) {
   }
   // 特殊的 behavior
   if (data.behavior === config.behaviors.history) {
-    action.syncHistory(data);
+    state.historyMsg = data;
     return;
   }
-  // 如果已经 ready ，则直接渲染。否则加入队列等待渲染
-  if (state.isReady) {
+  // 如果历史同步已经完成 ，则直接渲染。否则加入队列等待渲染
+  if (state.isHistorySynchronized) {
     action.render(data);
   } else {
     queue.push(data);
@@ -121,12 +168,16 @@ function postToRise(data) {
   if (window === window.top) {
     return false;
   }
+  if (!data || !data.behavior) {
+    return;
+  }
   console.log('sdk data:', data);
   // 特殊的 behavior
-  if (data.behavior === 'load') {
+  if (data.behavior === config.behaviors.load) {
     action.onLoad();
-  }
-  if (data && data.behavior) {
+  } else if (data.behavior === config.behaviors.ready) {
+    action.onCoursewareReady();
+  } else {
     window.parent.postMessage && window.parent.postMessage(data, '*');
   }
 }

diff --git a/demo/js/index.js b/demo/js/index.js
@@ -1,7 +1,7 @@
 const riseObserver = window.riseObserver;
 const callRiseIframe = window.callRiseIframe;
 
-const totalPage = 2; // 课件总页数
+// const totalPage = 2; // 课件总页数
 
 // 当前拖动状态信息
 const dragInfo = {
@@ -46,6 +46,7 @@ function eventInit() {
       const data = {
         target: target,
         behavior: 'rollCall',
+        page: 'page-1',
         scene: 'page-1',
         content: {}
       }
@@ -65,6 +66,7 @@ function eventInit() {
       target: '.next-page',
       behavior: 'setScene',
       // 当前所处的是第一页
+      page: 'page-1',
       scene: 'page-1',
       // 要进入第二页
       content: {
@@ -88,6 +90,7 @@ function eventInit() {
       const data = {
         target: `#${event.target.id}`,
         behavior: 'moveStart',
+        page: 'page-2',
         scene: 'page-2',
         content: { left: percentageX, top: percentageY }
       }
@@ -106,6 +109,7 @@ function eventInit() {
       const data = {
         target: `#${event.target.id}`,
         behavior: 'move',
+        page: 'page-2',
         scene: 'page-2',
         content: { left: percentageX, top: percentageY },
         // 鼠标移动事件太频繁，使用队列定时批量发送。SDK 内置了实现，只需要指定 interval = true 即可
@@ -119,6 +123,7 @@ function eventInit() {
     const data = {
       target: `#${event.target.id}`,
       behavior: 'moveEnd',
+      page: 'page-2',
       scene: 'page-2',
       content: null,
       // 等待 move 队列发送完毕后再发出
@@ -136,6 +141,7 @@ function eventInit() {
       callRiseIframe({
         target: `#${item.id}`, // dom 元素有 id 属性
         behavior: 'mediaPlay',
+        page: 'page-1',
         scene: 'page-1',
       });
     });
@@ -144,6 +150,7 @@ function eventInit() {
       callRiseIframe({
         target: `#${item.id}`, // dom 元素有 id 属性
         behavior: 'mediaPause',
+        page: 'page-1',
         scene: 'page-1',
       });
     });
@@ -152,6 +159,7 @@ function eventInit() {
       callRiseIframe({
         target: `#${item.id}`, // dom 元素有 id 属性
         behavior: 'mediaProgress',
+        page: 'page-1',
         scene: 'page-1',
         content: {
           currentTime: item.currentTime
@@ -166,6 +174,7 @@ function eventInit() {
       callRiseIframe({
         target: `#${item.id}`, // dom 元素有 id 属性
         behavior: 'mediaProgress',
+        page: 'page-1',
         scene: 'page-1',
         content: {
           currentTime: item.currentTime
@@ -178,6 +187,16 @@ function eventInit() {
 // 渲染函数
 /// 渲染相关的动作最好抽取出来封装成 api 对外曝露，然后各个端同步的时候会调用响应的渲染API
 const actionFn = {
+  ready() {
+    // 收到 SDK ready 通知
+
+    // do something...
+
+    // 通知 SDK 课件已 ready
+    callRiseIframe({
+      behavior: 'ready'
+    });
+  },
   // 翻页
   setScene(data) {
     const key = data.content.key;
@@ -351,7 +370,8 @@ function init() {
   // 课件加载完成通知
   callRiseIframe({
     target: `#app`,
-    behavior: 'load',
+    behavior: 'init',
+    page: 'page-1',
     scene: 'page-1',
     content: null,
   });

diff --git a/src/eventEmitter.js b/src/eventEmitter.js
@@ -19,23 +19,16 @@ EventEmitter.prototype.on = function (event, cb) {
 EventEmitter.prototype.addListener = EventEmitter.prototype.on;
 
 /**
- * 触发事件，返回 Promise
+ * 触发事件
  * @param {String} event 事件名
  */
 EventEmitter.prototype.emit = function (event) {
   var args = Array.prototype.slice.call(arguments);
   args.shift();
   const list = this.listeners[event] || [];
-  // 事件包装成 Promise
-  const promiseList = list.map(cb => {
-    const result = cb.apply(null, args);
-    if (result instanceof Promise) {
-      return result;
-    } else {
-      return new Promise(r => r(result));
-    }
+  list.forEach(cb => {
+    cb.apply(null, args);
   });
-  return Promise.all(promiseList);
 }
 
 EventEmitter.prototype.listeners = function (event) {

diff --git a/src/config.js b/src/config.js
@@ -3,6 +3,12 @@ export default {
   interval: 100,
   // 特殊的 behavior
   behaviors: {
-    history: '$rise_history'
+    // rise 同步历史
+    history: '$rise_history',
+    // 课件的 load
+    load: 'init',
+    ready: 'ready',
+    // 场景切换
+    setScene: 'setScene'
   }
 }

diff --git a/webpack.config.js b/webpack.config.js
@@ -1,6 +1,6 @@
 const path = require('path');
 
-const isModule = true;
+const isModule = false;
 
 let filename = 'index.js';
 let libraryTarget = 'umd';

diff --git a/README.md b/README.md
@@ -51,7 +51,7 @@ import { riseObserver, callRiseIframe } from 'rise-h5-sdk'
 
 behavior  | content自定义参数 | 说明
 ------------- | ------------- | -------------
-setScene  | { key:String }  | 控制切换到指定场景，参数说明：key 场景标识，一般来自于 callRiseIframe 中参数 scene.
+setScene  |  | 控制切换到指定场景，一般在同步最新进度时 SDK 会主动将历史消息中最近的一次 behavior = setScene  的发给课件
 mediaStopAll  |   | 暂停所有的媒体资源（音、视频）播放
 
 使用  riseObserver.on(key,fn) 注册这些 behavior,例如:
@@ -72,7 +72,6 @@ behavior  | 参数 | 说明
 ------------- | ------------- | -------------
 init | | 课件初始化事件，课件同步的操作会在 SDK 收到 init 通知后进行。参考流程图
 ready | | 课件已准备就绪，可以进入正常的收发通信过程。参考流程图
-reload | | 刷新课件，第三方发起此行为会清空当前课件的历史行为记录
 mediaPlay  |  | 媒体资源（音、视频）的播放事件
 mediaPause  |  | 媒体资源（音、视频）的播放停止事件
 mediaProgress  | {currentTime:Number}  | 媒体资源（音、视频）的播放进度事件,参数说明： currentTime:音视频的当前播放位置（以秒计）
@@ -84,8 +83,8 @@ mediaProgress  | {currentTime:Number}  | 媒体资源（音、视频）的播放
 callRiseIframe({
   target: '#course', // 课件选择器
   behavior: 'init', // 表示是课件初始化完成
-  page:'courseware1-lesson1'
-  scene:'courseware1-lesson1'
+  page:'courseware1-lesson1',
+  scene:'courseware1-lesson1',
   content: {}
 })
 ```
